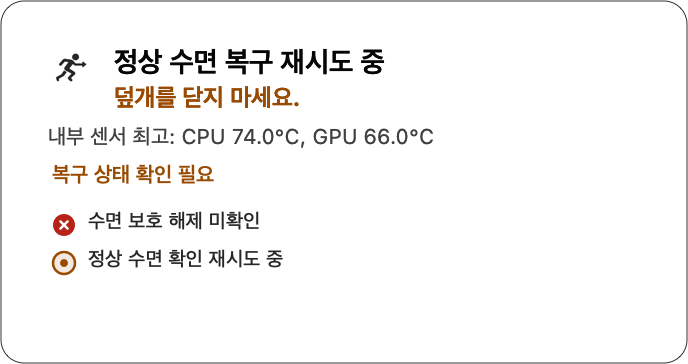
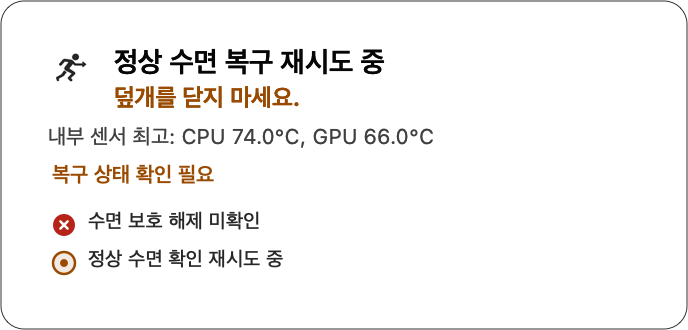
fix: 상태 카드 상세 정보를 잘리지 않게 표시함

diff --git a/Tests/RuntinueMenuBarTests/FlowlineViewsTests.swift b/Tests/RuntinueMenuBarTests/FlowlineViewsTests.swift
@@ -91,7 +91,52 @@ final class SafetyChecklistViewsTests: XCTestCase {
       XCTAssertEqual(checklist.presentation?.items.last?.state, .verified)
       XCTAssertTrue(checklist.accessibilityLabel()?.contains("수면 보호 적용됨") == true)
       XCTAssertEqual(header.frame.width, 320)
-      XCTAssertEqual(header.frame.height, 158)
+      XCTAssertEqual(header.frame.height, 154)
+    }
+  }
+
+  func testHeaderExpandsToShowAllStatusDetailsWithoutClipping() async throws {
+    try await MainActor.run {
+      let sampledAt = Date(timeIntervalSince1970: 1_000)
+      let status = SupervisorStatusWire(
+        phase: .active,
+        mode: .adaptive,
+        sessionID: UUID(),
+        verdict: .protected,
+        closedLidAllowed: true,
+        remainingSeconds: 5_400,
+        batteryPercent: 80,
+        thermalLevel: "nominal",
+        lidState: "open",
+        observation: WireObservationStatus(
+          buildID: nil,
+          issues: [.eventsUnavailable]
+        ),
+        temperatureTelemetry: temperatureTelemetry(sampledAt: sampledAt),
+        detail: "adaptive activity source=codex, session=commute",
+        updatedAt: sampledAt
+      )
+      let header = ProtectionStatusHeaderView()
+      header.update(MenuBarPresentation(status: status, now: sampledAt))
+      header.layoutSubtreeIfNeeded()
+
+      let detail = try XCTUnwrap(
+        findView(identifier: "runtinue.header.detail", in: header) as? NSTextField
+      )
+      let measurement = NSTextField(labelWithString: detail.stringValue)
+      measurement.font = detail.font
+      measurement.lineBreakMode = .byWordWrapping
+      measurement.maximumNumberOfLines = 0
+      measurement.preferredMaxLayoutWidth = detail.bounds.width
+
+      XCTAssertTrue(detail.stringValue.hasSuffix("관찰 기록 경고, 진단 정보를 확인하세요."))
+      XCTAssertEqual(detail.maximumNumberOfLines, 0)
+      XCTAssertGreaterThan(measurement.intrinsicContentSize.height, 28)
+      XCTAssertGreaterThanOrEqual(
+        detail.bounds.height + 0.5,
+        measurement.intrinsicContentSize.height
+      )
+      XCTAssertGreaterThan(header.frame.height, 92)
     }
   }
 
@@ -167,6 +212,38 @@ private func protectedTripStatus(closedLidAllowed: Bool) -> SupervisorStatusWire
     lidState: "open",
     detail: nil,
     updatedAt: Date(timeIntervalSince1970: 1)
+  )
+}
+
+private func temperatureTelemetry(sampledAt: Date) -> WireTemperatureTelemetry {
+  WireTemperatureTelemetry(
+    status: .available,
+    source: .appleSMC,
+    machineModel: "Mac17,8",
+    operatingSystemBuild: "25F84",
+    mappingRevision: "Mac17,8-apple-smc-r1",
+    mappingQuality: .singleDeviceValidated,
+    sampledAt: sampledAt,
+    validUntil: sampledAt.addingTimeInterval(15),
+    lastSuccessfulAt: sampledAt,
+    components: [
+      WireTemperatureComponentObservation(
+        component: .cpuInternal,
+        minimumCelsius: 69,
+        maximumCelsius: 74,
+        validSensorCount: 18,
+        expectedSensorCount: 18,
+        validSensorIDs: ["Tp00"]
+      ),
+      WireTemperatureComponentObservation(
+        component: .gpuInternal,
+        minimumCelsius: 61,
+        maximumCelsius: 66,
+        validSensorCount: 7,
+        expectedSensorCount: 7,
+        validSensorIDs: ["Tg0U"]
+      ),
+    ]
   )
 }
 

diff --git a/Sources/RuntinueMenuBar/FlowlineViews.swift b/Sources/RuntinueMenuBar/FlowlineViews.swift
@@ -347,6 +347,9 @@ final class SafetyChecklistView: NSView {
 @MainActor
 final class ProtectionStatusHeaderView: NSView {
   private static let width: CGFloat = 320
+  private static let horizontalInset: CGFloat = 12
+  private static let verticalInset: CGFloat = 10
+  private static let contentWidth = width - (horizontalInset * 2)
   private let iconView = NSImageView()
   private let headlineLabel = NSTextField(labelWithString: "")
   private let guidanceLabel = NSTextField(labelWithString: "")
@@ -355,15 +358,10 @@ final class ProtectionStatusHeaderView: NSView {
   private let contentStack = NSStackView()
 
   override var intrinsicContentSize: NSSize {
-    let height: CGFloat
-    if !checklistView.isHidden {
-      height = detailLabel.isHidden ? 130 : 158
-    } else if !detailLabel.isHidden {
-      height = 92
-    } else {
-      height = 68
-    }
-    return NSSize(width: Self.width, height: height)
+    NSSize(
+      width: Self.width,
+      height: ceil(contentStack.fittingSize.height + (Self.verticalInset * 2))
+    )
   }
 
   convenience init() {
@@ -426,7 +424,8 @@ final class ProtectionStatusHeaderView: NSView {
     detailLabel.font = .systemFont(ofSize: 10.5, weight: .regular)
     detailLabel.textColor = .secondaryLabelColor
     detailLabel.lineBreakMode = .byWordWrapping
-    detailLabel.maximumNumberOfLines = 2
+    detailLabel.maximumNumberOfLines = 0
+    detailLabel.preferredMaxLayoutWidth = Self.contentWidth
     detailLabel.setAccessibilityIdentifier("runtinue.header.detail")
 
     let titleStack = NSStackView(views: [headlineLabel, guidanceLabel])
@@ -450,10 +449,10 @@ final class ProtectionStatusHeaderView: NSView {
     contentStack.translatesAutoresizingMaskIntoConstraints = false
     checklistView.translatesAutoresizingMaskIntoConstraints = false
     NSLayoutConstraint.activate([
-      contentStack.leadingAnchor.constraint(equalTo: leadingAnchor, constant: 12),
-      contentStack.trailingAnchor.constraint(equalTo: trailingAnchor, constant: -12),
-      contentStack.topAnchor.constraint(equalTo: topAnchor, constant: 10),
-      contentStack.bottomAnchor.constraint(equalTo: bottomAnchor, constant: -10),
+      contentStack.leadingAnchor.constraint(equalTo: leadingAnchor, constant: Self.horizontalInset),
+      contentStack.trailingAnchor.constraint(equalTo: trailingAnchor, constant: -Self.horizontalInset),
+      contentStack.topAnchor.constraint(equalTo: topAnchor, constant: Self.verticalInset),
+      contentStack.bottomAnchor.constraint(equalTo: bottomAnchor, constant: -Self.verticalInset),
       checklistView.widthAnchor.constraint(equalToConstant: SafetyChecklistGeometry.width),
       checklistView.heightAnchor.constraint(equalToConstant: SafetyChecklistGeometry.height),
     ])
